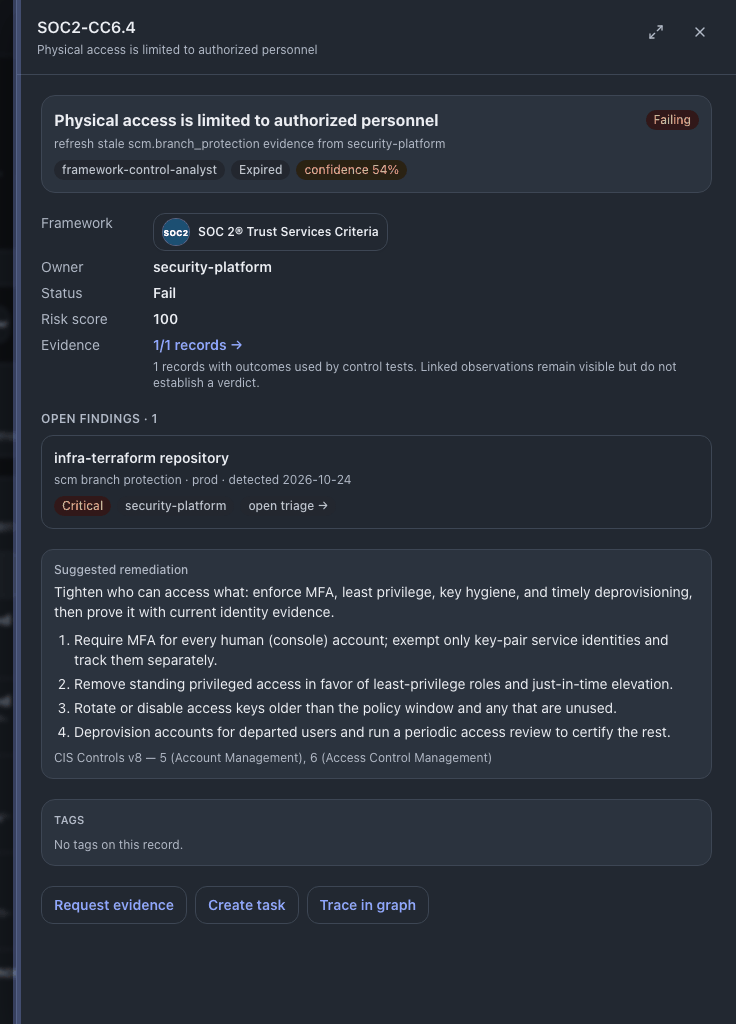
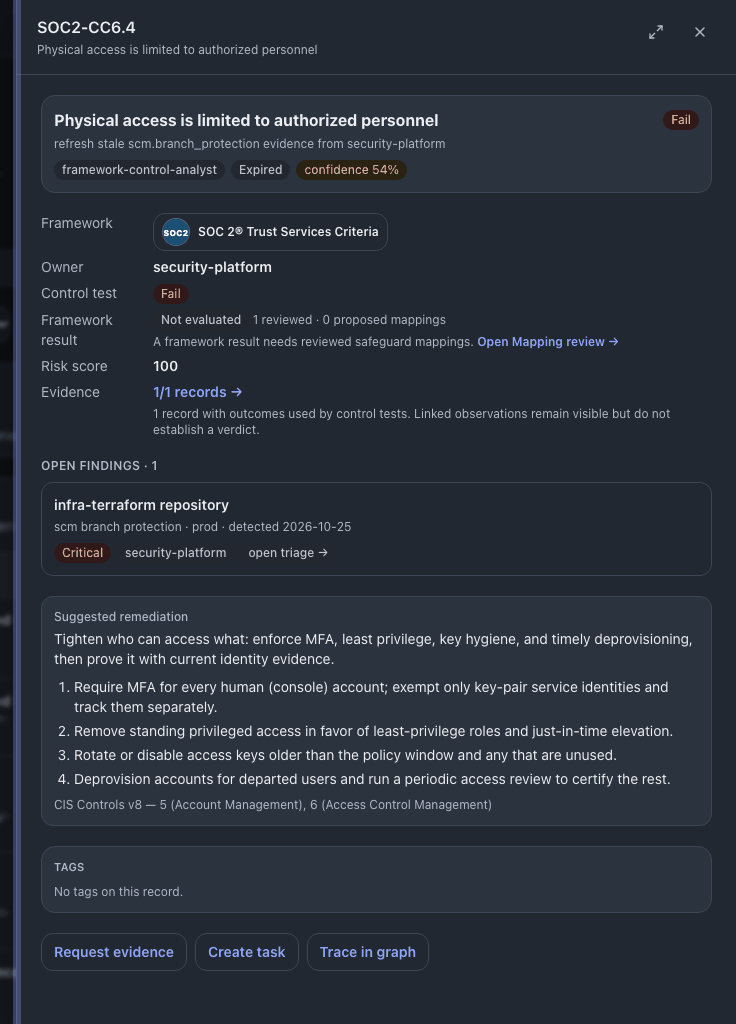
fix(graph): renew warm cache entries on read and refresh control screenshots

diff --git a/app/web/src/components/drawers/ControlDrawer.tsx b/app/web/src/components/drawers/ControlDrawer.tsx
@@ -10,7 +10,7 @@ import { FrameworkBadge } from "@/components/framework/FrameworkBadge";
 import { EntityTagsEditor } from "@/components/EntityTagsEditor";
 import { resolveFrameworkId } from "@/lib/framework-visuals";
 import type { ControlPosture } from "@/lib/api/types";
-import { assetLabel } from "@/lib/format";
+import { assetLabel, plural } from "@/lib/format";
 import { displayLabel } from "@/lib/display";
 import {
   CcfAttestationNote,
@@ -104,9 +104,9 @@ export function ControlDrawer({ control, onClose, onOpenViolation }: Props) {
               </Link>
               {test && (
                 <p className="mt-1 text-xs font-normal text-muted">
-                  {test.evidence_count} records with outcomes used by control
-                  tests. Linked observations remain visible but do not establish
-                  a verdict.
+                  {plural(test.evidence_count, "record")} with outcomes used by
+                  control tests. Linked observations remain visible but do not
+                  establish a verdict.
                 </p>
               )}
             </dd>

diff --git a/app/web/e2e/control-attestation.spec.ts b/app/web/e2e/control-attestation.spec.ts
@@ -87,3 +87,17 @@ test("framework detail leads with attested passes, not control test passes", asy
     "Control test passing · Not attested",
   );
 });
+
+test("the control drawer counts a single outcome record in the singular", async ({
+  page,
+  request,
+}) => {
+  const body = (await (
+    await request.get("/api/v1/control-tests?limit=500")
+  ).json()) as { data: Array<{ control_id: string; evidence_count: number }> };
+  const single = body.data.find((row) => row.evidence_count === 1)!;
+  await page.goto(`/console/controls/?id=${single.control_id}`);
+  const drawer = page.getByRole("dialog");
+  await expect(drawer).toContainText("1 record with outcomes");
+  await expect(drawer).not.toContainText("1 records with");
+});

diff --git a/tests/test_investigation_cache_budget.py b/tests/test_investigation_cache_budget.py
@@ -51,7 +51,7 @@ def test_oversized_model_is_returned_but_not_retained():
     assert not store._entries and not store._building and store._bytes == 0
 
 
-def test_expiry_rebuilds_without_requiring_background_threads(monkeypatch):
+def test_idle_expiry_rebuilds_without_requiring_background_threads(monkeypatch):
     clock = [0.0]
     monkeypatch.setattr(cache, "monotonic", lambda: clock[0])
     store = cache.ModelCache(ttl=60)
@@ -64,7 +64,10 @@ def test_expiry_rebuilds_without_requiring_background_threads(monkeypatch):
     for instant in (0, 30, 61):
         clock[0] = instant
         store.get_or_build(("a", "v"), build, lambda: True, lambda: None)
-    assert len(builds) == 2
+    assert len(builds) == 1, "a read renews the entry, so a model in steady use stays warm"
+    clock[0] = 121
+    store.get_or_build(("a", "v"), build, lambda: True, lambda: None)
+    assert len(builds) == 2, "an entry idle for the full ttl is rebuilt"
 
 
 def test_canceled_waiter_does_not_abort_leader():

diff --git a/src/security_lakehouse/investigation_cache.py b/src/security_lakehouse/investigation_cache.py
@@ -75,6 +75,7 @@ class ModelCache:
                         self._bytes -= self._entries.pop(previous)[1]
                 cached = self._entries.get(key)
                 if cached is not None:
+                    self._entries[key] = cached[0], cached[1], monotonic()
                     self._entries.move_to_end(key)
                     return cached[0]
                 waiting = self._building.get(key)

diff --git a/README.md b/README.md
@@ -291,14 +291,14 @@ failing, missing, stale, conflicting, and incomplete-population cases.
 <details>
 <summary>Where to look for each review question</summary>
 
-| Question                                                         | Start here                                                                                                                    |
-| ---------------------------------------------------------------- | ----------------------------------------------------------------------------------------------------------------------------- |
-| How do the layers fit together?                                  | [Architecture and source map](docs/ARCHITECTURE.md#implementation-and-test-map), [data flow](docs/DATA_FLOW.md)               |
-| What makes a result pass, fail, or remain unknown?               | [Evaluation semantics](docs/EVIDENCE_EVALUATION_SEMANTICS.md), [population reconciliation](docs/POPULATION_RECONCILIATION.md) |
-| What prevents cross-tenant access and unauthorized decisions?    | [Trust boundaries](docs/THREAT_MODEL.md), [identity and scopes](docs/SERVER_AUTH.md)                                          |
-| What happens after partial writes, retries, or interrupted jobs? | [Generation publication](docs/ASSESSMENT_GENERATIONS.md), [operation contracts](docs/ASSESSMENT_APPLICATION_CONTRACT.md)      |
-| How are integrity and reproducibility checked?                   | [Workpaper qualification](docs/CONTROL_WORKFLOW_QUALIFICATION.md), [backup and restore](docs/runbooks/BACKUP_RESTORE.md)      |
-| What performance has actually been measured?                     | [Pipeline measurements](docs/benchmarks/CCF_PIPELINE.md), [graph latency and memory](docs/benchmarks/INVESTIGATION_CACHE.md)  |
+| Question                                                         | Start here                                                                                                                                              |
+| ---------------------------------------------------------------- | ------------------------------------------------------------------------------------------------------------------------------------------------------- |
+| How do the layers fit together?                                  | [Architecture and source map](docs/ARCHITECTURE.md#implementation-and-test-map), [data flow](docs/DATA_FLOW.md)                                         |
+| What makes a result pass, fail, or remain unknown?               | [Evaluation semantics](docs/EVIDENCE_EVALUATION_SEMANTICS.md), [population reconciliation](docs/POPULATION_RECONCILIATION.md)                           |
+| What prevents cross-tenant access and unauthorized decisions?    | [Trust boundaries](docs/THREAT_MODEL.md), [identity and scopes](docs/SERVER_AUTH.md)                                                                    |
+| What happens after partial writes, retries, or interrupted jobs? | [Generation publication](docs/ASSESSMENT_GENERATIONS.md), [operation contracts](docs/ASSESSMENT_APPLICATION_CONTRACT.md)                                |
+| How are integrity and reproducibility checked?                   | [Workpaper qualification](docs/CONTROL_WORKFLOW_QUALIFICATION.md), [backup and restore](docs/runbooks/BACKUP_RESTORE.md)                                |
+| What performance has actually been measured?                     | [Pipeline measurements](docs/benchmarks/CCF_PIPELINE.md), [graph latency and memory](docs/benchmarks/INVESTIGATION_CACHE.md#navigation-index-follow-up) |
 
 Run checks from the revision under review; the CI badge tracks `main`, and benchmark
 receipts name their own revisions and workloads.

diff --git a/CHANGELOG.md b/CHANGELOG.md
@@ -5,6 +5,7 @@ Python package, Helm chart, and bundled web console.
 
 ## Unreleased
 
+- Keep investigation graph models warm while they are in use: a read now renews the 60-second cache entry, so a model expires only after 60 seconds without reads. Document that models in active use which do not fit the cache budget together can rebuild on every request. The control drawer now says "1 record with outcomes" instead of "1 records". Refresh the Controls, Frameworks and control drawer screenshots for the control test and framework result labels.
 - Refuse a release tag while `## Unreleased` still has entries, so every shipped change appears in the release notes. Rescan the published image daily on both architectures with the release vulnerability policy.
 - Fix investigation graph accuracy. Graph versions no longer depend on the process hash seed, so expanding a node after a restart or on another worker no longer fails with "graph version changed". Requirement nodes add `ccf_status`, `reviewed_safeguard_count` and `proposed_safeguard_count` from the CCF assessment beside the posture `status`, plus posture `rule_reasons`, `evaluation_rule` and `open_event_count`. Requirement and safeguard neighborhoods now include the source that produced each evidence record. Safeguard evidence bound to an asset type the safeguard does not accept is marked `binding: "invalid_asset_type"` instead of drawn as supporting evidence.
 - Delete the `grc-lake demo` temporary lake when the process receives SIGTERM, not only on Ctrl+C.

diff --git a/docs/INVESTIGATION_GRAPH.md b/docs/INVESTIGATION_GRAPH.md
@@ -61,9 +61,12 @@ the lake's JSONL indexes. Changing a generation or overlay cannot reuse the prev
 key. Mutable legacy lakes and generations missing frozen catalogs rebuild normally.
 
 The process retains at most eight models, one per lake, within a 128 MiB budget of
-accounted Python object sizes. Models expire 60 seconds after insertion, with
+accounted Python object sizes. Models expire after 60 seconds without a read, with
 expired entries removed on the next cache access; least recently used models are
-evicted when necessary. Oversized models are returned without retention. This is
+evicted when necessary. Oversized models are returned without retention. When the
+models in active use do not fit the budget together, requests that alternate between
+them rebuild each time and can be slower than running without the cache; see
+[retention sizing](benchmarks/INVESTIGATION_CACHE.md#retention-sizing). This is
 not a total RSS bound: active builds, active readers, temporary allocations and
 Python allocator overhead are additional. No graph cache is written to disk. See the
 [reuse measurements](benchmarks/INVESTIGATION_CACHE.md) for observed cold/warm
